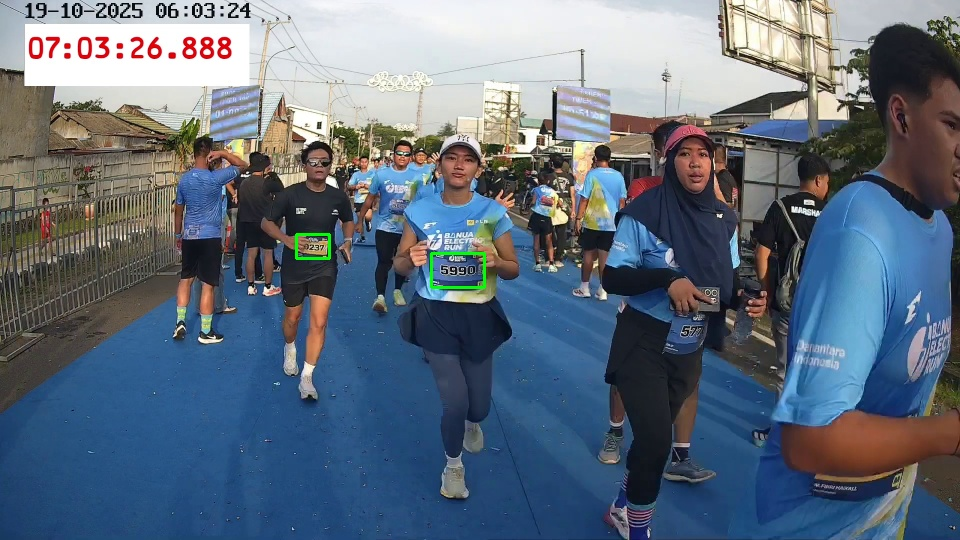
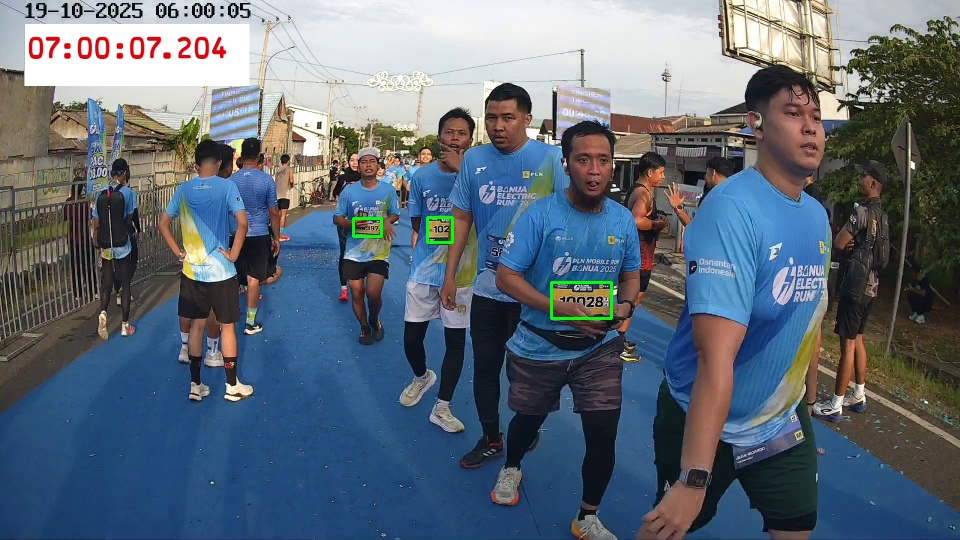
fix: set IS_SERVER to False for local testing; update frame.jpg output

diff --git a/scripts/app.py b/scripts/app.py
@@ -12,7 +12,7 @@ st.set_page_config(page_title="Deteksi Bib", layout="wide")
 # =========================
 # DETEKSI ENVIRONMENT
 # =========================
-IS_SERVER = os.environ.get("IS_SERVER", "0") == "1"
+IS_SERVER = False
 FASTAPI_URL = "http://localhost:8000"
 
 # =========================
